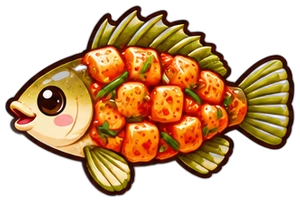
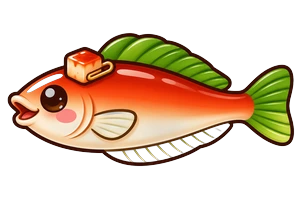
깍두기노래미 그림 교체(B안): 울퉁불퉁한 깍두기 덩어리 대신 매끈한 몸 · 파잎 지느러미 · 깍두기 머리핀
Claude-Session: https://claude.ai/code/session_015t7mweLLBzEFYGgsGmysr6

diff --git a/js/hotddok.js b/js/hotddok.js
@@ -360,7 +360,7 @@ const SPOTS = [[0.54, 37, '정자'], [0.578, 33, '의자'], [0.179, 30, '찻집 
     const fNm = f => `${(HD_FISH_ALL[f.id] || ['물고기'])[0]}${f.shiny && HD_SHINY.has(f.id) ? ' ✨' : ''}${f.g ? ` ${f.g}등급` : ''}`;
     const oneF = (key, arr) => { const max = arr.length, sumOf = n => arr.slice(0, n).reduce((a, f) => a + f.p, 0); qty({ name: fNm(arr[0]), max, unit: 0, unitW: '', cnt: '마리', have: `가진 것 ${max}마리 · 한 마리 ${arr[0].p.toLocaleString()}${max > 1 ? `~${arr[max - 1].p.toLocaleString()}` : ''}코인${max > 1 ? ' · 싼 것부터 팔아요' : ''}`, sumOf, onSell: n => { const sold = new Set(arr.slice(0, n)); if ([...sold].some(f => !(bag.hfish || []).includes(f) && !WH().fish.includes(f))) return false; bag.hfish = (bag.hfish || []).filter(f => !sold.has(f)); WH().fish = WH().fish.filter(f => !sold.has(f)); return true; } }); }; /* 같은 종류 · 등급끼리 묶고, 싼 것(작은 것)부터 판다 · 창고에 맡긴 것도 포함 */
     const rows = [...ids.map(k => h('button', { class: 'so-row hd-row', onClick: () => { cl && cl(); one(k); } }, h('img', { class: 'hd-ic', src: `${IMG}i-${k}.webp?v=1`, alt: '' }), h('b', null, `${NAMES[k]} × ${bag[k]}`), h('small', null, `하나에 ${SELL_P(k).toLocaleString()}코인 · 눌러서 수량 고르기`))),
-      ...fg.map(([key, arr]) => { const f = arr[arr.length - 1]; return h('button', { class: 'so-row hd-row', onClick: () => { cl && cl(); oneF(key, arr); } }, h('img', { class: 'hd-ic', src: `${IMG}f${f.id}${f.shiny && HD_SHINY.has(f.id) ? 's' : ''}.webp?v=3`, alt: '' }), h('b', null, `🐟 ${fNm(f)} × ${arr.length}마리`), h('small', null, `한 마리 ${arr[0].p.toLocaleString()}${arr.length > 1 ? `~${f.p.toLocaleString()}` : ''}코인 · 눌러서 수량 고르기`)); }),
+      ...fg.map(([key, arr]) => { const f = arr[arr.length - 1]; return h('button', { class: 'so-row hd-row', onClick: () => { cl && cl(); oneF(key, arr); } }, h('img', { class: 'hd-ic', src: `${IMG}f${f.id}${f.shiny && HD_SHINY.has(f.id) ? 's' : ''}.webp?v=4`, alt: '' }), h('b', null, `🐟 ${fNm(f)} × ${arr.length}마리`), h('small', null, `한 마리 ${arr[0].p.toLocaleString()}${arr.length > 1 ? `~${f.p.toLocaleString()}` : ''}코인 · 눌러서 수량 고르기`)); }),
       ...gr.map(([k, n]) => { const c = rCrop(k.split('|')[0]); return h('button', { class: 'so-row hd-row', onClick: () => { cl && cl(); oneG(k, n); } }, h('img', { class: 'hd-ic', src: `${IMG}rice/c${c ? c[5] : 0}.webp?v=1`, alt: '' }), h('b', null, `🌾 ${gName(k)}등급 × ${n}단`), h('small', null, `한 단 ${grainP(k).toLocaleString()}코인 · 눌러서 수량 고르기`)); })];
     cl = modal({ title: '💰 물건 팔기', body: h('div', { class: 'so-list' }, h('div', { class: 'ap-cnt hd-card' }, h('img', { class: 'hd-keeper', src: `${IMG}k-toy.webp?v=1`, alt: '' }), h('p', null, `“${kd[0]}가 산 물건은 절반 값에, 물고기와 곡식은 제값에 사 드릴게요! 몇 개든 좋아요.”`)),
       rows.length ? rows : h('p', { class: 'center' }, '팔 것이 없어요.')), actions: [{ label: '닫기' }] }); }
@@ -565,9 +565,9 @@ const SPOTS = [[0.54, 37, '정자'], [0.578, 33, '의자'], [0.179, 30, '찻집 
   function fish() { const n = npcs.town.slice().sort((p, q) => Math.abs(p.x - me.x) - Math.abs(q.x - me.x))[0]; if (fishing) return;
     if (bag.rodBroke) return toast('🎣 낚싯대가 부서져 버렸어요 · 부메랑상회에서 새 낚싯대를 사 주세요', 2400);
     if (!bag.bait) { say(n, '우리는 낚시를 하지 않아. 여기 바다에는 맛없는 생선들밖에 없어.', 4.5); return toast('🪱 미끼가 없어요 · 부메랑상회에서 팔아요', 2200); }
-    fishing = true; openFishing({ ctx, zone: 2, title: '핫똑 나루터', cls: 'hdsea', noStorm: true, ghostSense: () => !!(bag.sym || {})[CHILI] || (demo && /[?&]chili\b/.test(location.search)), aUp: () => bathUp() / 100, pool: HD_FISH.map(([nm, t, gh, sz], i) => [nm, t, gh, i, sz]).filter(x => !/[?&]ghosttest\b/.test(location.search) || x[2]).map(([nm, t, gh, i, sz]) => ({ id: i, name: nm, cm: gh ? [70, 130] : sz || [22 + t * 18, 40 + t * 34], price: gh ? [9000, 15000] : FISH_P[t], tier: t + 1, rare: t >= 2, ghost: !!gh, img: `${IMG}f${i}.webp?v=3`, ...(HD_SHINY.has(i) ? { imgS: `${IMG}f${i}s.webp?v=1` } : {}) })), boat: '', info: () => `핫똑 미끼 ${bag.bait || 0}${bathUp() ? ` · ♨ A등급 +${bathUp()}%` : ''}`,
+    fishing = true; openFishing({ ctx, zone: 2, title: '핫똑 나루터', cls: 'hdsea', noStorm: true, ghostSense: () => !!(bag.sym || {})[CHILI] || (demo && /[?&]chili\b/.test(location.search)), aUp: () => bathUp() / 100, pool: HD_FISH.map(([nm, t, gh, sz], i) => [nm, t, gh, i, sz]).filter(x => !/[?&]ghosttest\b/.test(location.search) || x[2]).map(([nm, t, gh, i, sz]) => ({ id: i, name: nm, cm: gh ? [70, 130] : sz || [22 + t * 18, 40 + t * 34], price: gh ? [9000, 15000] : FISH_P[t], tier: t + 1, rare: t >= 2, ghost: !!gh, img: `${IMG}f${i}.webp?v=4`, ...(HD_SHINY.has(i) ? { imgS: `${IMG}f${i}s.webp?v=1` } : {}) })), boat: '', info: () => `핫똑 미끼 ${bag.bait || 0}${bathUp() ? ` · ♨ A등급 +${bathUp()}%` : ''}`,
       rodBreak: () => { bag.rodBroke = 1; save(); }, bag: () => ({ rod: 2, rodD: 999, bait2: bag.bait || 0 }), save: pt => { if (pt.bait2 != null) bag.bait = pt.bait2; }, coins: () => {}, keep: x => { const gh = x.id === GHOST_ID; bag.hfish = [...(bag.hfish || []), gh ? { id: x.id, cm: x.cm, g: x.g, p: 0, t: Date.now() } : { id: x.id, cm: x.cm, g: x.g, p: x.p }]; if (gh) ghostNew = 1; save(); }, keepText: '🧺 가방에 담았어요 · 부메랑상회에서 팔아요', seen: id => !!(bag.dex || {})[id], dex: (id, cm) => { bag.dex = { ...(bag.dex || {}), [id]: Math.max((bag.dex || {})[id] || 0, cm) }; }, onClose: () => { fishing = false; if (ghostNew) { ghostNew = 0; setTimeout(ghostWarn, 300); } } }); }
-  function dex() { const d = bag.dex || {}; modal({ title: `📖 핫똑 도감 · ${Object.keys(d).filter(k => +k !== GHOST_ID).length} / ${HD_FISH.filter(x => !x[2]).length}`, body: h('div', { class: 'hd-dex' }, HD_FISH.map((x, i) => [x, i]).filter(([x]) => !x[2]).map(([[nm, t], i]) => h('div', { class: 'hd-dexc' + (d[i] ? '' : ' no') }, h('img', { src: `${IMG}f${i}.webp?v=3`, alt: '' }), h('b', null, d[i] ? nm : '???'), h('small', { style: { color: TIER[t][2] } }, d[i] ? `${TIER[t][0]} · ${d[i]}cm` : TIER[t][0])))), actions: [{ label: '닫기' }] }); }
+  function dex() { const d = bag.dex || {}; modal({ title: `📖 핫똑 도감 · ${Object.keys(d).filter(k => +k !== GHOST_ID).length} / ${HD_FISH.filter(x => !x[2]).length}`, body: h('div', { class: 'hd-dex' }, HD_FISH.map((x, i) => [x, i]).filter(([x]) => !x[2]).map(([[nm, t], i]) => h('div', { class: 'hd-dexc' + (d[i] ? '' : ' no') }, h('img', { src: `${IMG}f${i}.webp?v=4`, alt: '' }), h('b', null, d[i] ? nm : '???'), h('small', { style: { color: TIER[t][2] } }, d[i] ? `${TIER[t][0]} · ${d[i]}cm` : TIER[t][0])))), actions: [{ label: '닫기' }] }); }
   // 지금 자리에서 A 버튼으로 할 수 있는 일
   let punchAt = 0;
   function punch() { const now = performance.now(); if (now - punchAt < 600 || me.on || document.querySelector('.modal-wrap')) return; punchAt = now; meEl.classList.remove('punch'); void meEl.offsetWidth; meEl.classList.add('punch'); sfx('swing');
@@ -714,11 +714,11 @@ const GRADE_X = { D: 0.5, C: 0.7, B: 0.85, A: 1, S: 1.6 }, grainP = k => { const
 export const hdGrainP = k => grainP(k), hdGrainInfo = k => { const [id, g] = k.split('|'), c = RICE.find(r => r[0] === id); return c ? { name: c[1], g, img: `img/hd/rice/c${c[5]}.webp?v=1` } : null; }; /* 카피랜드 벼 도매상이 쓴다 */
 /* 핫똑 물고기 도감 칸(카피랜드 · 핫똑랜드 가방 공용): 46종, 못 잡은 건 ??? · 이로치는 따로 */
 export function hdDexGrid(bag) { const d = (bag && bag.dex) || {}, L = HD_FISH_ALL.map((x, i) => [x, i]).filter(([x]) => !x[2]), got = L.filter(([, i]) => d[i]).length;
-  return { got, total: L.length, el: h('div', { class: 'hd-dex' }, L.map(([[nm, t], i]) => h('div', { class: 'hd-dexc' + (d[i] ? '' : ' no') }, h('img', { src: `${IMG}f${i}.webp?v=3`, alt: '' }), h('b', null, d[i] ? nm : '???'), h('small', { style: { color: TIER[t][2] } }, d[i] ? `${TIER[t][0]} · ${d[i]}cm` : TIER[t][0])))) }; }
+  return { got, total: L.length, el: h('div', { class: 'hd-dex' }, L.map(([[nm, t], i]) => h('div', { class: 'hd-dexc' + (d[i] ? '' : ' no') }, h('img', { src: `${IMG}f${i}.webp?v=4`, alt: '' }), h('b', null, d[i] ? nm : '???'), h('small', { style: { color: TIER[t][2] } }, d[i] ? `${TIER[t][0]} · ${d[i]}cm` : TIER[t][0])))) }; }
 export function hdGoodsRows(bag) { const out = [], gr = Object.entries((bag.rice && bag.rice.grain) || {}).filter(([, n]) => n > 0), fish = (bag.hfish || []).filter(f => f.id !== GHOST_ID);
   if (gr.length) { out.push(h('b', { class: 'so-sellh hd-goodsh' }, `🌾 거둔 곡식 ${gr.reduce((a, [, n]) => a + n, 0)}단`)); gr.forEach(([k, n]) => { const [id, g] = k.split('|'), c = RICE.find(r => r[0] === id); if (c) out.push(h('div', { class: 'so-row hd-row off hd-good' }, h('img', { class: 'hd-ic', src: `img/hd/rice/c${c[5]}.webp?v=1`, alt: '' }), h('b', null, `${c[1]} ${g}등급 × ${n}단`), h('small', null, `한 단 ${grainP(k).toLocaleString()}코인 · 부메랑상회에서 팔아요`))); }); }
   { const wg = Object.values((bag.wh && bag.wh.grain) || {}).reduce((x, n) => x + (n > 0 ? n : 0), 0), wf = ((bag.wh && bag.wh.fish) || []).length; if (wg || wf) out.push(h('p', { class: 'dim center hd-goodsn' }, `📦 부메랑상회 창고에 맡긴 것 · ${[wg && `곡식 ${wg}단`, wf && `물고기 ${wf}마리`].filter(Boolean).join(' · ')}${wg ? ' · 곡식은 상회에서 바로 팔 수 있어요' : ''}`)); }
-  if (fish.length) { out.push(h('b', { class: 'so-sellh hd-goodsh' }, `🐟 잡은 물고기 ${fish.length}마리`)); out.push(h('div', { class: 'hd-fishgrid' }, fish.map(f => h('div', { class: 'hd-fishc' }, h('img', { src: `img/hd/f${f.id}${f.shiny && HD_SHINY.has(f.id) ? 's' : ''}.webp?v=3`, alt: '' }), h('small', null, `${(HD_FISH_ALL[f.id] || ['물고기'])[0]}`), h('small', { class: 'dim' }, `${f.cm}cm · ${(f.p || 0).toLocaleString()}코인`))))); out.push(h('p', { class: 'dim center hd-goodsn' }, '핫똑랜드 부메랑상회에서 팔아요')); }
+  if (fish.length) { out.push(h('b', { class: 'so-sellh hd-goodsh' }, `🐟 잡은 물고기 ${fish.length}마리`)); out.push(h('div', { class: 'hd-fishgrid' }, fish.map(f => h('div', { class: 'hd-fishc' }, h('img', { src: `img/hd/f${f.id}${f.shiny && HD_SHINY.has(f.id) ? 's' : ''}.webp?v=4`, alt: '' }), h('small', null, `${(HD_FISH_ALL[f.id] || ['물고기'])[0]}`), h('small', { class: 'dim' }, `${f.cm}cm · ${(f.p || 0).toLocaleString()}코인`))))); out.push(h('p', { class: 'dim center hd-goodsn' }, '핫똑랜드 부메랑상회에서 팔아요')); }
   return out; }
 const HD_ITEM = { boom: '솔나무 부메랑', kite: '방패연', drum: '장구', bait: '핫똑 미끼', ggul: '꿀떡', hotteok: '호떡', yakgwa: '약과', charm: '저주퇴치부적' };
 export function hdPinsLite(ctx, d, onChange) { const bag = (d && d.bag) || {}; return hdPinGrid(bag, (sl, v, msg) => { bag.wear = { ...(bag.wear || {}) }; if (bag.wear[sl] === v) delete bag.wear[sl]; else bag.wear[sl] = v; d.bag = bag; ctx.hdw = { ...(ctx.hdw || {}), [ctx.uid]: { ...(bag.wear || {}) } }; ctx.store.update('hd/' + ctx.uid, { s: JSON.stringify(d), wear: bag.wear && Object.keys(bag.wear).length ? bag.wear : null }).catch(() => {}); sfx('pop'); toast(msg, 1500); onChange && onChange(); }); }
